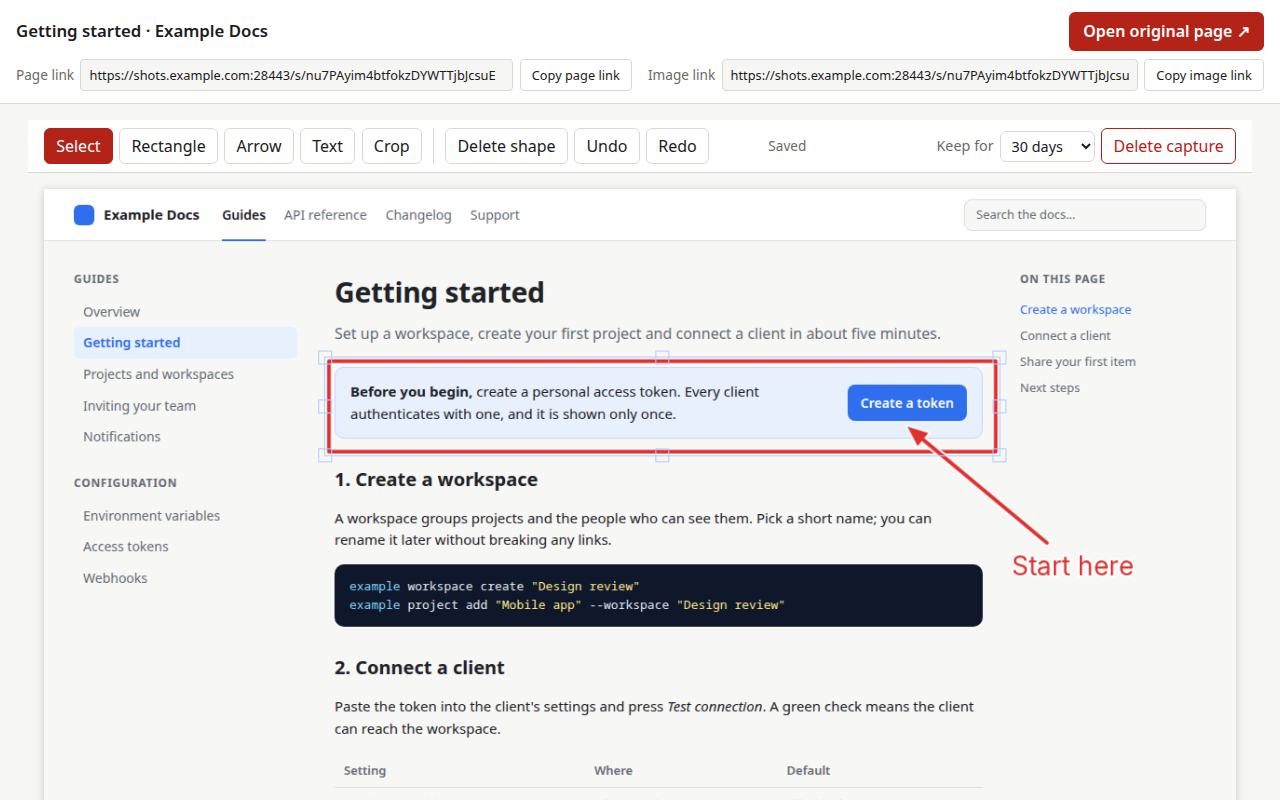
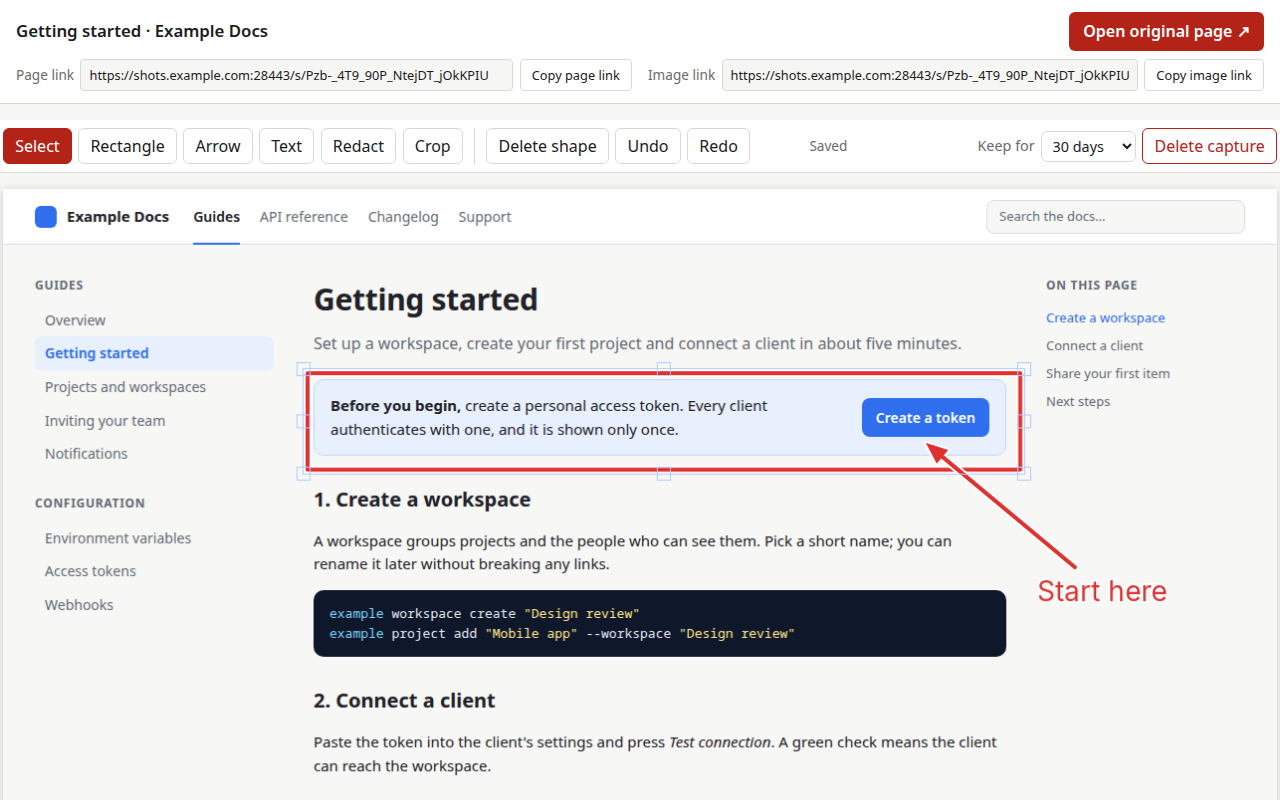
chore(extension): regenerate the listing screenshots for the Redact tool (E9)
The editor toolbar gained a button, so the generated set is remade from the
same fixture and recorded in STORE_SUBMISSION.md §3. No extension code change.

diff --git a/extension/STORE_SUBMISSION.md b/extension/STORE_SUBMISSION.md
@@ -253,7 +253,8 @@ Listing inputs on record — fill in when first entered, update when they change
 (a domain migration changes the first; every regenerated screenshot set the
 second):
 
-| Input              | Value                                                                          | Entered / last updated |
-| ------------------ | ------------------------------------------------------------------------------ | ---------------------- |
-| Privacy policy URL | `https://$PUBLIC_HOST:$PUBLIC_PORT/privacy` (write the real host; not yet set) | —                      |
-| Screenshot set     | `extension/store-assets/` at commit `…` (the `listing-shots` run that made it) | —                      |
+| Input              | Value                                                                                                                                            | Entered / last updated |
+| ------------------ | ------------------------------------------------------------------------------------------------------------------------------------------------ | ---------------------- |
+| Privacy policy URL | `https://$PUBLIC_HOST:$PUBLIC_PORT/privacy` (write the real host; not yet set)                                                                   | —                      |
+| Screenshot set     | `extension/store-assets/` at commit `…` (the `listing-shots` run that made it)                                                                   | —                      |
+| Screenshot set     | regenerated after E9 (the editor toolbar gained **Redact**; `listing-shots` run on top of `c53738b`) — upload this set with the first submission | 2026-10-03             |
